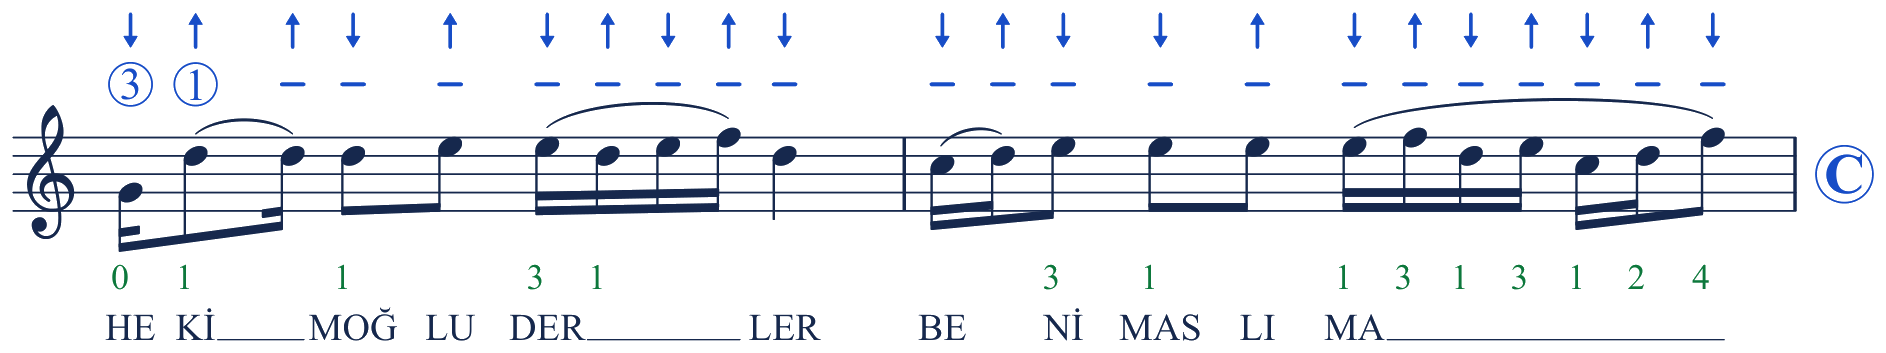
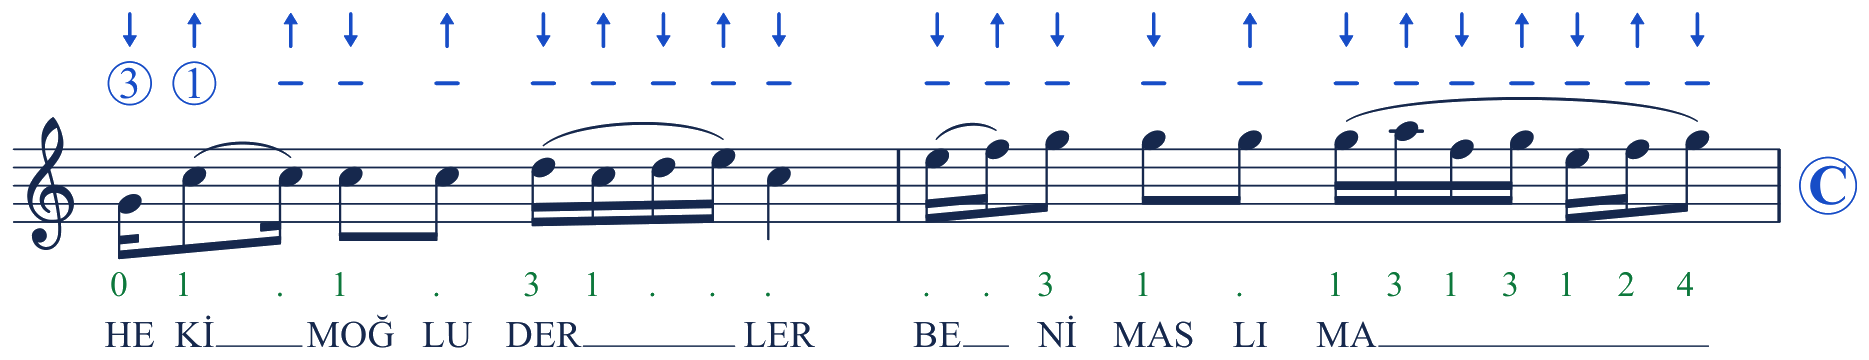
V90 Hekimoglu SAZMETRI V0080 recheck

diff --git a/notes.js b/notes.js
@@ -20,8 +20,9 @@ window.NOTES = {
 // V58 - K02 #22 Cemberimde Gul Oya: groups A-F, page + black-white page, video follows the teacher (V63: forced page-order alignment, 82% match)
 "Çemberimde Gül Oya": { dir: "notes/cemberimde-gul-oya/", page: "notes/cemberimde-gul-oya/sayfa.png?v=89", pageBW: "notes/cemberimde-gul-oya/sayfa-sb.png?v=89", groups: ["A", "B", "C", "D", "E", "F"], cue: {"1o3vWaz9lxNs2kK2JxwXPXgvSGyW8QdgG":[[3.04,"A"],[12.01,"B"],[20.97,"C"],[31.67,"D"],[36.28,"C"],[45.54,"D"],[48.68,"E"],[56.87,"F"]]}, pts: {"1o3vWaz9lxNs2kK2JxwXPXgvSGyW8QdgG":[[3.94,7],[4.09,7],[4.19,7],[4.31,14],[4.42,14],[4.69,12],[4.78,10],[5.02,14],[5.21,12],[5.37,12],[5.61,14],[5.74,12],[6.0,12],[6.16,14],[6.26,10],[6.39,7],[7.34,12],[7.85,12],[8.02,12],[8.12,14],[8.4,10],[8.51,7],[8.88,7],[9.04,7],[9.42,14],[9.52,10],[9.93,7],[10.2,12],[10.3,12],[10.43,12],[10.59,14],[10.95,10],[11.46,7],[11.71,7],[12.01,10],[13.01,10],[13.37,10],[13.49,14],[13.63,12],[13.73,10],[13.94,7],[14.14,4],[14.39,4],[14.48,3],[14.99,3],[15.44,3],[15.6,3],[15.74,3],[15.93,3],[16.1,3],[16.22,3],[16.46,3],[16.68,3],[17.12,3],[17.21,3],[17.43,3],[17.61,3],[17.71,3],[17.84,3],[17.95,3],[18.46,3],[18.59,3],[18.74,3],[18.97,3],[19.17,3],[19.29,3],[19.48,3],[19.7,3],[19.82,3],[20.0,3],[20.15,3],[20.31,3],[21.15,3],[21.39,3],[21.48,3],[22.01,14],[22.12,14],[22.26,14],[22.47,17],[22.58,12],[22.72,12],[23.2,3],[23.3,14],[23.43,14],[23.67,14],[23.89,17],[24.31,17],[24.4,12],[24.6,12],[25.04,14],[25.34,10],[25.5,7],[25.67,3],[26.08,3],[26.26,14],[26.45,14],[26.77,14],[27.02,17],[27.28,12],[27.37,12],[27.67,14],[27.87,10],[28.19,7],[28.35,3],[28.67,3],[29.01,4],[29.19,7],[29.61,10],[29.72,7],[30.13,4],[30.23,4],[30.32,3],[30.58,3],[30.8,3],[31.05,14],[31.16,14],[31.32,14],[31.45,17],[31.65,0],[31.76,0],[31.99,0],[32.25,4],[32.47,4],[32.89,4],[32.99,4],[33.92,4],[34.31,7],[34.42,4],[34.52,3],[34.71,0],[34.91,3],[35.11,3],[36.03,4],[36.37,3],[36.53,3],[36.68,3],[36.81,14],[36.91,14],[37.3,14],[37.4,17],[37.73,12],[37.96,12],[38.17,14],[38.47,10],[38.61,7],[38.82,3],[39.07,3],[39.54,4],[39.81,7],[40.48,10],[40.63,7],[40.75,4],[40.85,4],[41.15,3],[41.35,3],[41.82,3],[42.14,14],[42.34,14],[42.65,14],[42.95,17],[43.16,12],[43.32,12],[43.42,14],[43.61,10],[43.82,7],[43.93,3],[44.08,3],[44.23,4],[44.33,7],[44.5,10],[44.64,7],[44.73,4],[45.21,4],[45.66,7],[45.87,4],[46.03,3],[46.13,0],[46.3,0],[46.53,0],[46.67,4],[46.76,4],[46.99,4],[47.14,4],[47.23,4],[47.34,7],[47.76,7],[49.57,14],[49.74,12],[50.03,14],[50.23,12],[50.47,12],[50.78,12],[50.94,10],[51.15,7],[51.38,14],[51.6,12],[51.82,14],[51.97,12],[52.22,12],[52.76,10],[52.91,7],[53.23,12],[53.39,12],[53.52,12],[53.64,14],[53.73,10],[54.09,7],[54.25,7],[54.61,7],[54.71,14],[54.86,14],[55.12,12],[55.32,10],[55.42,14],[55.56,12],[55.71,14],[55.83,12],[55.91,12],[56.02,10],[56.44,7],[56.53,12],[56.94,3],[57.85,3],[58.18,10],[58.3,10],[58.6,14],[58.77,12],[59.22,10],[59.68,7],[59.88,7],[60.11,4],[60.4,4],[60.55,3],[60.75,3],[60.93,3],[61.02,3],[61.71,3],[62.1,3],[62.35,3],[62.82,3],[63.25,3],[63.41,3],[63.58,3],[63.72,3],[64.06,3],[64.15,3]]}, perde: { A: "7 7 14 14 12 10 14 12 14 12 12 14 10 7 12 12 12 14 10 7", B: "10 10 14 12 10 7 4 4 3 3 3 3 3 3 3 3 3 3 3", C: "3 3 4 7 10 7 4 4 3 3 3 14 14 14 17 12 12 14 10 7", D: "4 4 4 4 4 7 4 3 0 0 0 4 4 4 4 4 7 4 3 0 3 4 4", E: "7 7 14 14 12 10 14 12 14 12 12 10 7 12 12 12 14 10 7", F: "10 10 14 12 10 7 4 4 3 3 3 3 3 3 3 3 3 3 3" } },
 "Arda Boylarında": { dir: "notes/arda-boylarinda/", page: "notes/arda-boylarinda/sayfa.png?v=89", pageBW: "notes/arda-boylarinda/sayfa-sb.png?v=89", groups: ["A", "B", "C", "D", "E", "F", "G", "A2"], cue: [], perde: { A: "10 10 11 10 7 10 7 10 7 4 4 7 4 3 3 7 4 7 10 7 10 7 4 7 4 3 4 3 10 10 10 10 10", B: "10 10 11 10 7 10 7 10 7 4 4 7 4 3 3 7 4 7 10 7 10 7 4 7 4 3 4 3 3 3 3 3 3", C: "7 14 14 12 11 14 11 10 10 11 10 7 11 10 11 14 11 10 11 10 11 10 7 10 7 7 7 7 7 7", D: "10 10 11 10 7 10 7 10 7 4 4 7 4 3 3 7 4 7 10 7 10 7 4 7 4 3 4 3 10 10 10 10 10", E: "10 10 11 10 7 10 7 10 7 4 4 7 4 3 3 7 4 7 10 7 10 7 4 7 4 3 4 3 3 3 3 3 3", F: "7 7 14 14 12 11 14 11 10 10 11 10 7 11 10 11 14 11 10 11 10 11 10 7 10 7 7 7 7 7 7", G: "10 10 11 10 7 10 7 10 7 4 4 7 4 3 3 7 4 7 10 7 10 7 4 7 4 3 4 3 10 10 10 10 10", A2: "10 10 11 10 7 10 7 10 7 4 4 7 4 3 3 7 4 7 10 7 10 7 4 7 4 3 4 3 10 10 10 10 10" } },
+// V90: Hekimoğlu perde + pages rebuilt after SAZMETRI V0080.
 // V66: Hekimoğlu (Kitap 2 / 24): book page 42, groups A-D. No video yet: cue empty, perde from the SAZMETRI generator (open-string g' skipped).
-"Hekimoğlu": { dir: "notes/hekimoglu/", page: "notes/hekimoglu/sayfa.png?v=72", pageBW: "notes/hekimoglu/sayfa-sb.png?v=72", groups: ["A", "B", "C", "D"], cue: [], perde: { A: "10 11 11 11 10 7 7 7 7 4 7 7 7 4 7 4 10 7 10 4 7 4 7 3 4 7 7 10 11 14", B: "10 11 11 11 10 7 7 7 7 4 7 7 7 4 7 4 10 7 10 4 7 4 7 3 4 7 7 7", C: "7 7 7 10 10 7 10 11 7 4 7 10 10 10 10 11 7 10 4 7 11", D: "10 11 11 11 11 10 7 7 7 7 4 7 7 7 4 7 4 10 7 10 4 7 4 7 3 4 7 7 7" } },
+"Hekimoğlu": { dir: "notes/hekimoglu/", page: "notes/hekimoglu/sayfa.png?v=90", pageBW: "notes/hekimoglu/sayfa-sb.png?v=90", groups: ["A", "B", "C", "D"], cue: [], perde: { A: "10 11 11 11 11 10 10 10 10 7 10 10 7 4 7 4 10 7 10 4 7 4 7 3 4 4 4 7 10 11", B: "10 11 11 11 11 10 10 10 10 7 10 10 7 4 7 4 10 7 10 4 7 4 7 3 4 4 4 4", C: "4 4 4 4 7 4 7 10 4 10 11 14 14 14 14 17 11 14 10 11 14", D: "10 11 11 11 11 11 10 10 10 10 7 10 10 7 4 7 4 10 7 10 4 7 4 7 3 4 4 4 4" } },
 // V67: Kayanın Bedenleri (Kitap 2 / 25): book pages 43 + 44 stacked as one page; groups A-F (p.43), A2 (p.44 = G). No video yet: cue empty, perde from the SAZMETRI generator.
 "Kayanın Bedenleri": { dir: "notes/kayanin-bedenleri/", page: "notes/kayanin-bedenleri/sayfa.png?v=67", pageBW: "notes/kayanin-bedenleri/sayfa-sb.png?v=67", groups: ["A", "B", "C", "D", "E", "F", "A2"], cue: [], perde: { A: "7 10 4 7 3 4 4 10 7 7 10 4 10 3 4 4 4 7 10 4 7 3 4 10 7", B: "7 10 4 7 3 4 4 7 7 10 4 7 3 4 10 7 7 10 4 7 3 4 10 7", C: "7 10 11 14 10 10 7 10 11 14 10 7 7 4 7 3 4 7 7", D: "7 10 4 7 3 4 7 10 11 14 10 10 7 10 11 14 10", E: "7 10 4 7 3 4 10 7 7 10 4 7 3 4 7 10 4 7 3 4 4 10 7", F: "7 10 4 7 3 4 4 7 7 10 4 7 3 4 10 7 7 10 4 7 3 4 4 4", A2: "7 10 4 7 3 4 10 7 7 10 4 7 3 4" } },
 // V71: Biz Canları Güle Vermişiz (Kitap 2 / 26): book pages 43 + 44 stacked as one page; groups A, B, C, A2 (p.43), B2 (p.44). Cut with the V70 component method (edge ink 0). No video yet: cue empty, perde from the SAZMETRI generator.

diff --git a/index.html b/index.html
@@ -557,7 +557,7 @@
 <script src="data.js?v=49"></script>
 <script src="media.js"></script>
 <script src="lyrics.js?v=87"></script>
-<script src="notes.js?v=89"></script>
+<script src="notes.js?v=90"></script>
 <script src="tools.js?v=40"></script>
 <script>
 const D = window.DATA;
@@ -633,7 +633,7 @@ function notes(name, msg, key){
     $('nt').firstChild.onclick = () => window.openPage && openPage(S.page, name, S.pageBW); }
   if (!S) { $('sheet').innerHTML = '<div class="ph">' + msg + '</div>'; sap(); return; }
   // V25 - one group (A, B, C ...) at a time; the letters on the right turn the page
-  $('sheet').innerHTML = '<div class="grp-view">' + S.groups.map(k => '<img class="nota" data-k="' + k + '" src="' + S.dir + k + '.png?v=89" alt="' + esc(name) + ' ' + k + '" hidden>').join('') + '</div>' +
+  $('sheet').innerHTML = '<div class="grp-view">' + S.groups.map(k => '<img class="nota" data-k="' + k + '" src="' + S.dir + k + '.png?v=90" alt="' + esc(name) + ' ' + k + '" hidden>').join('') + '</div>' +
     '<div class="grp-nav">' + S.groups.map(k => '<button data-k="' + k + '">' + k + '</button>').join('') + '</div>';
   const go = k => { $('sheet').querySelectorAll('[data-k]').forEach(e => e.tagName === 'IMG' ? e.hidden = e.dataset.k !== k : e.classList.toggle('on', e.dataset.k === k)); sap(S, k);
     // V40 - many groups: the list starts at the top (A) and slides down with the active letter
